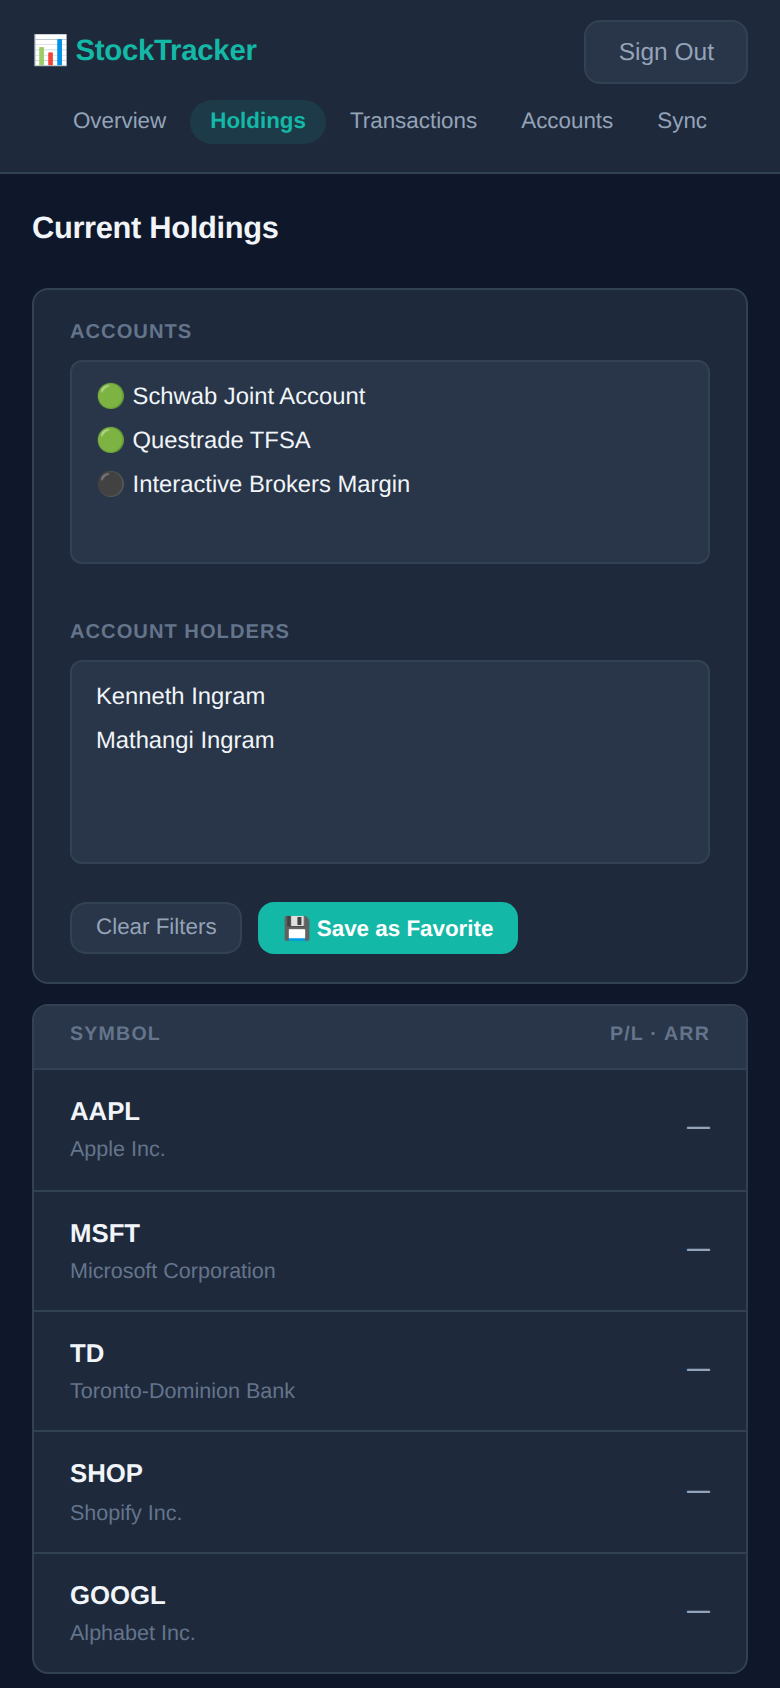
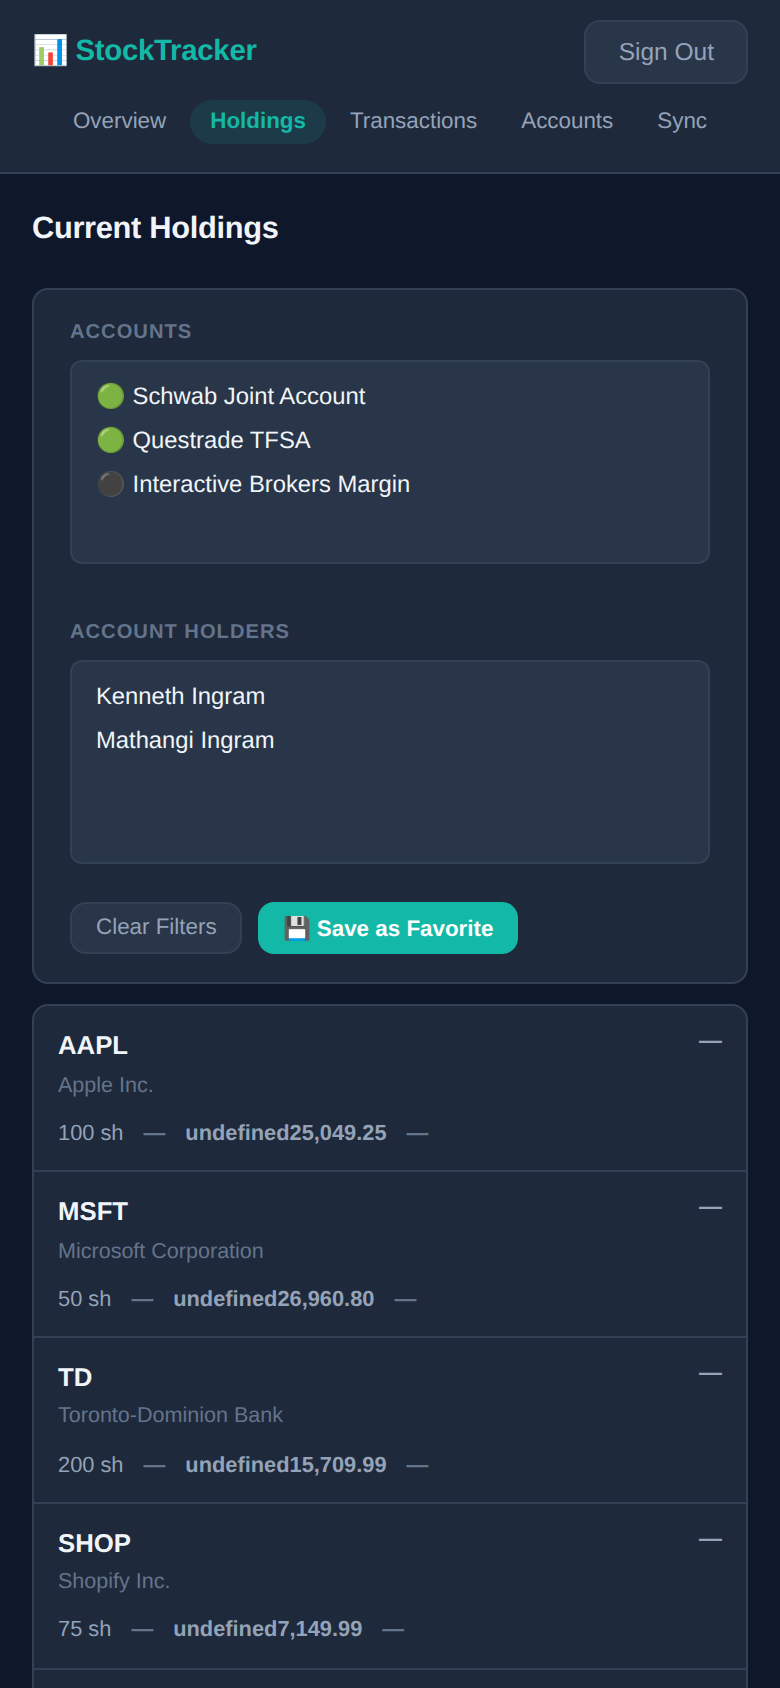
Fix mobile holding cards to show all data instead of hiding columns
Convert hidden-column mobile layout to 2-row flex card layout:
- Row 1: symbol/company name (left) + P/L (right)
- Row 2: qty, price, and value shown in a secondary info row

Previously qty, price, and value were hidden via display:none on
screens ≤768px. Now the cards grow taller to display all data.
Column headers are hidden (replaced by the self-describing card layout).

https://claude.ai/code/session_013JRWT23HvmKBwHXbZpKJU9

diff --git a/css/styles.css b/css/styles.css
@@ -1267,25 +1267,53 @@ button {
     gap: 10px;
   }
 
-  /* Compact holding rows — hide middle cols on small screens */
+  /* Mobile holding cards: show all data in a 2-row card layout */
   .holdings-col-header,
-  .holding-row {
-    grid-template-columns: 1fr 130px;
-  }
-
-  .holdings-col-header > *:not(:first-child):not(:last-child),
-  .holding-row > *:not(.holding-identity):not(.holding-pl) {
+  .holdings-col-header-detail {
     display: none;
   }
 
-  .holdings-col-header-detail,
+  .holding-row,
   .holding-row-detail {
-    grid-template-columns: 1fr 130px;
+    display: flex;
+    flex-wrap: wrap;
+    gap: 4px 10px;
+    padding: 10px 12px;
+    align-items: flex-start;
   }
 
-  .holdings-col-header-detail > *:not(:first-child):not(:last-child),
+  /* Forces a line-break between row 1 (identity + pl) and row 2 (stats) */
+  .holding-row::after,
+  .holding-row-detail::after {
+    content: '';
+    flex: 1 1 100%;
+    order: 2;
+    height: 0;
+  }
+
+  .holding-row .holding-identity,
+  .holding-row-detail .holding-identity {
+    order: 1;
+    flex: 1 1 auto;
+    min-width: 0;
+  }
+
+  .holding-row .holding-pl,
+  .holding-row-detail .holding-pl {
+    order: 1;
+    flex: 0 0 auto;
+    text-align: right;
+  }
+
+  /* Show all previously-hidden data in a secondary info row */
+  .holding-row > *:not(.holding-identity):not(.holding-pl),
   .holding-row-detail > *:not(.holding-identity):not(.holding-pl) {
-    display: none;
+    order: 3;
+    display: flex;
+    flex: 0 0 auto;
+    align-items: center;
+    font-size: 0.78em;
+    color: var(--text-secondary);
   }
 
   .filters-bar { flex-direction: column; }
